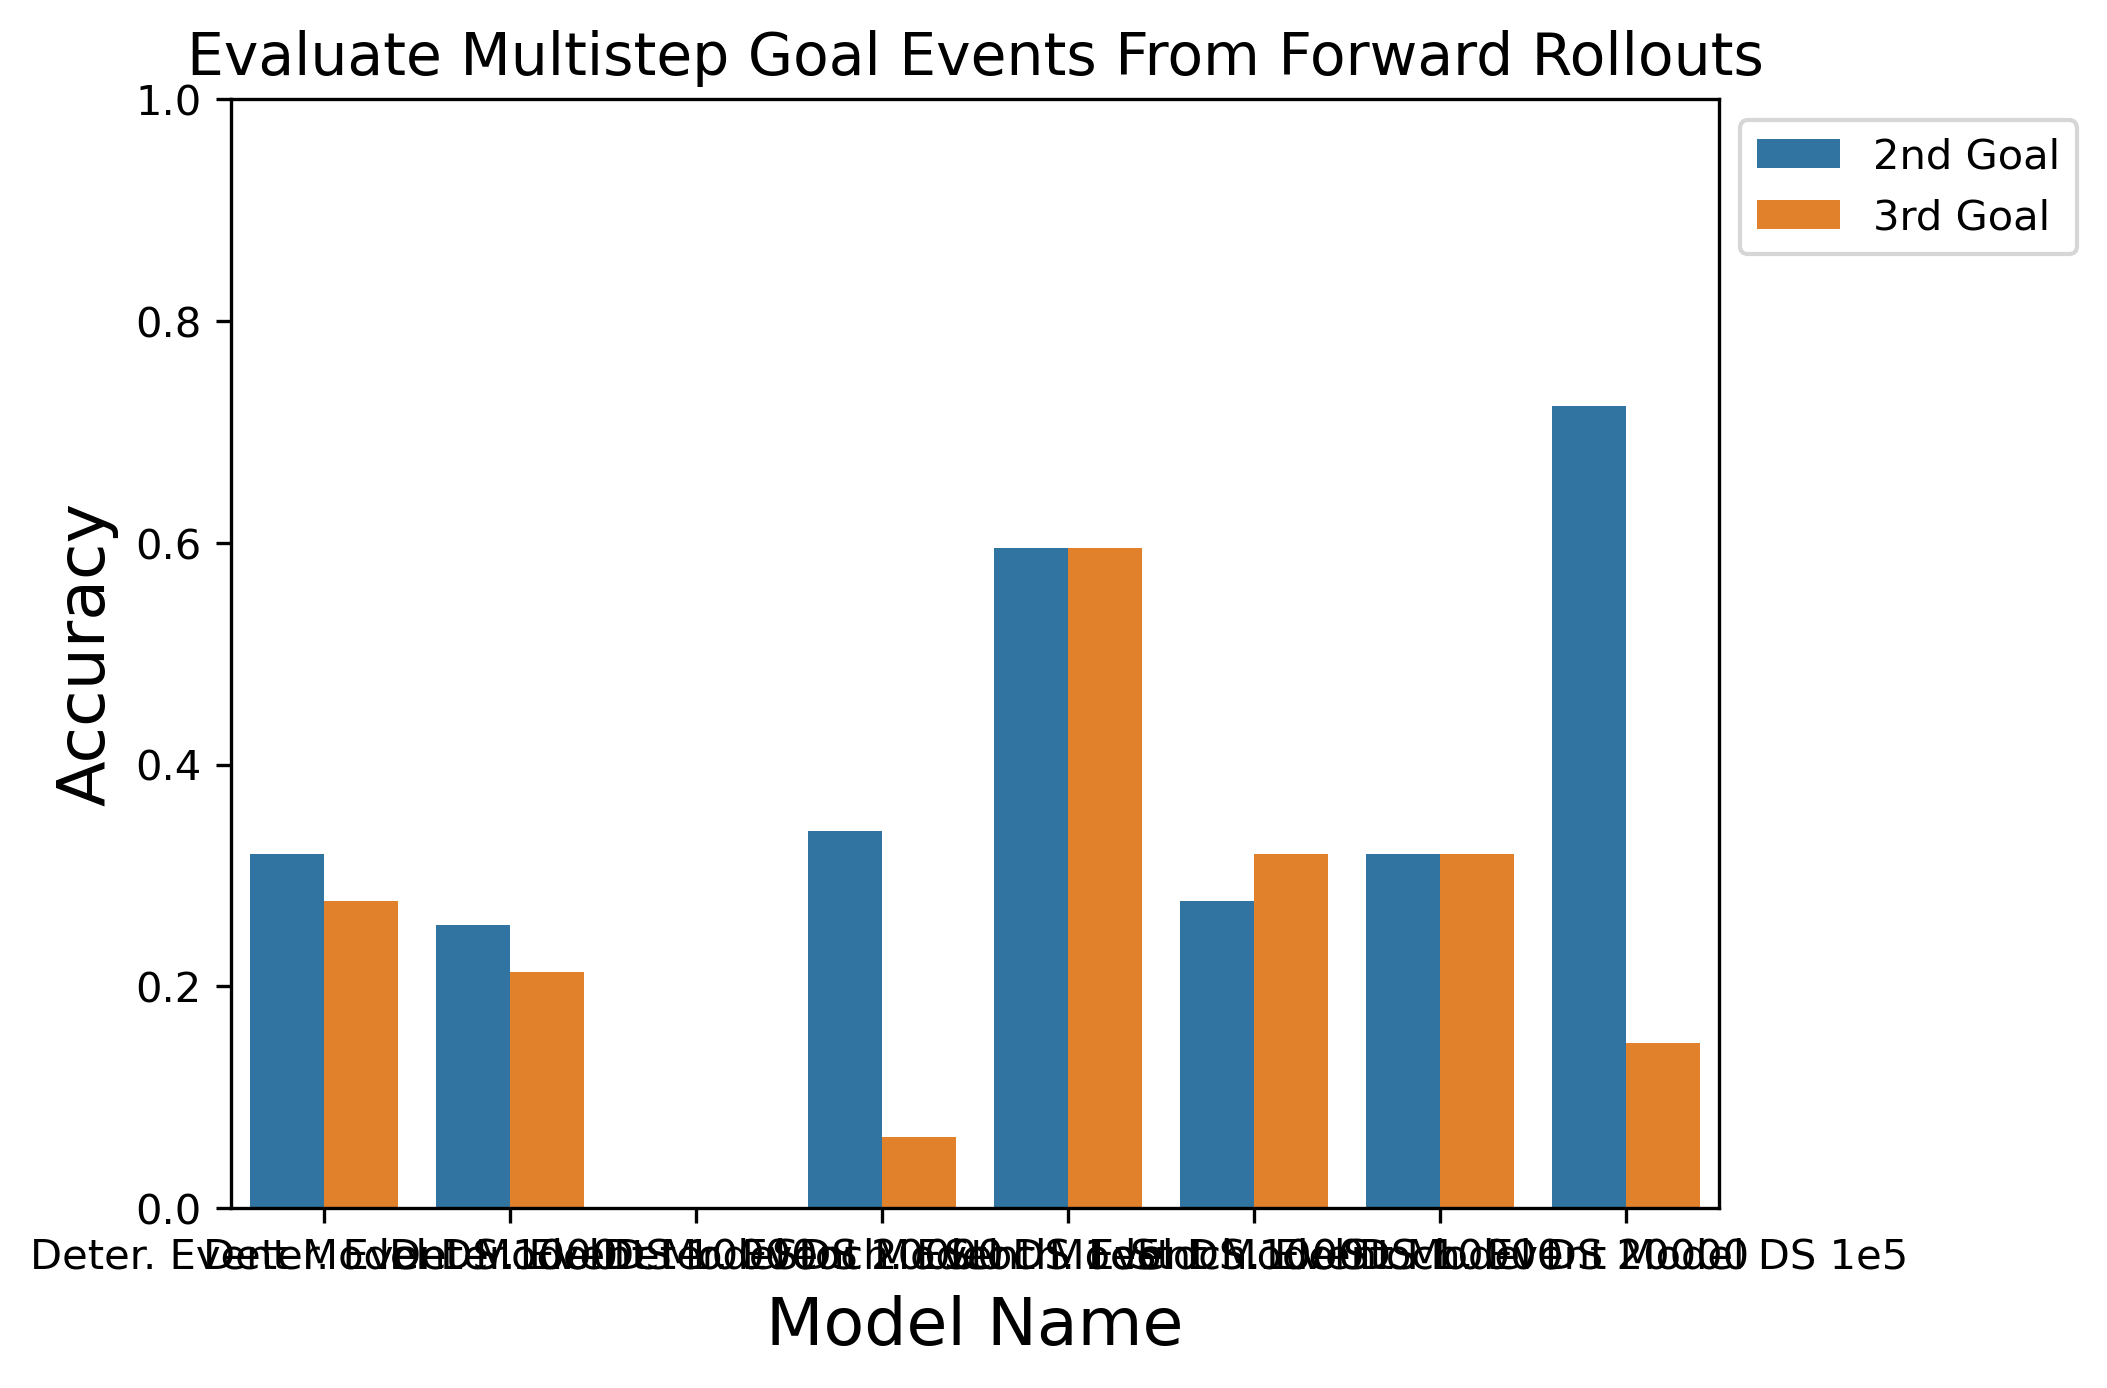
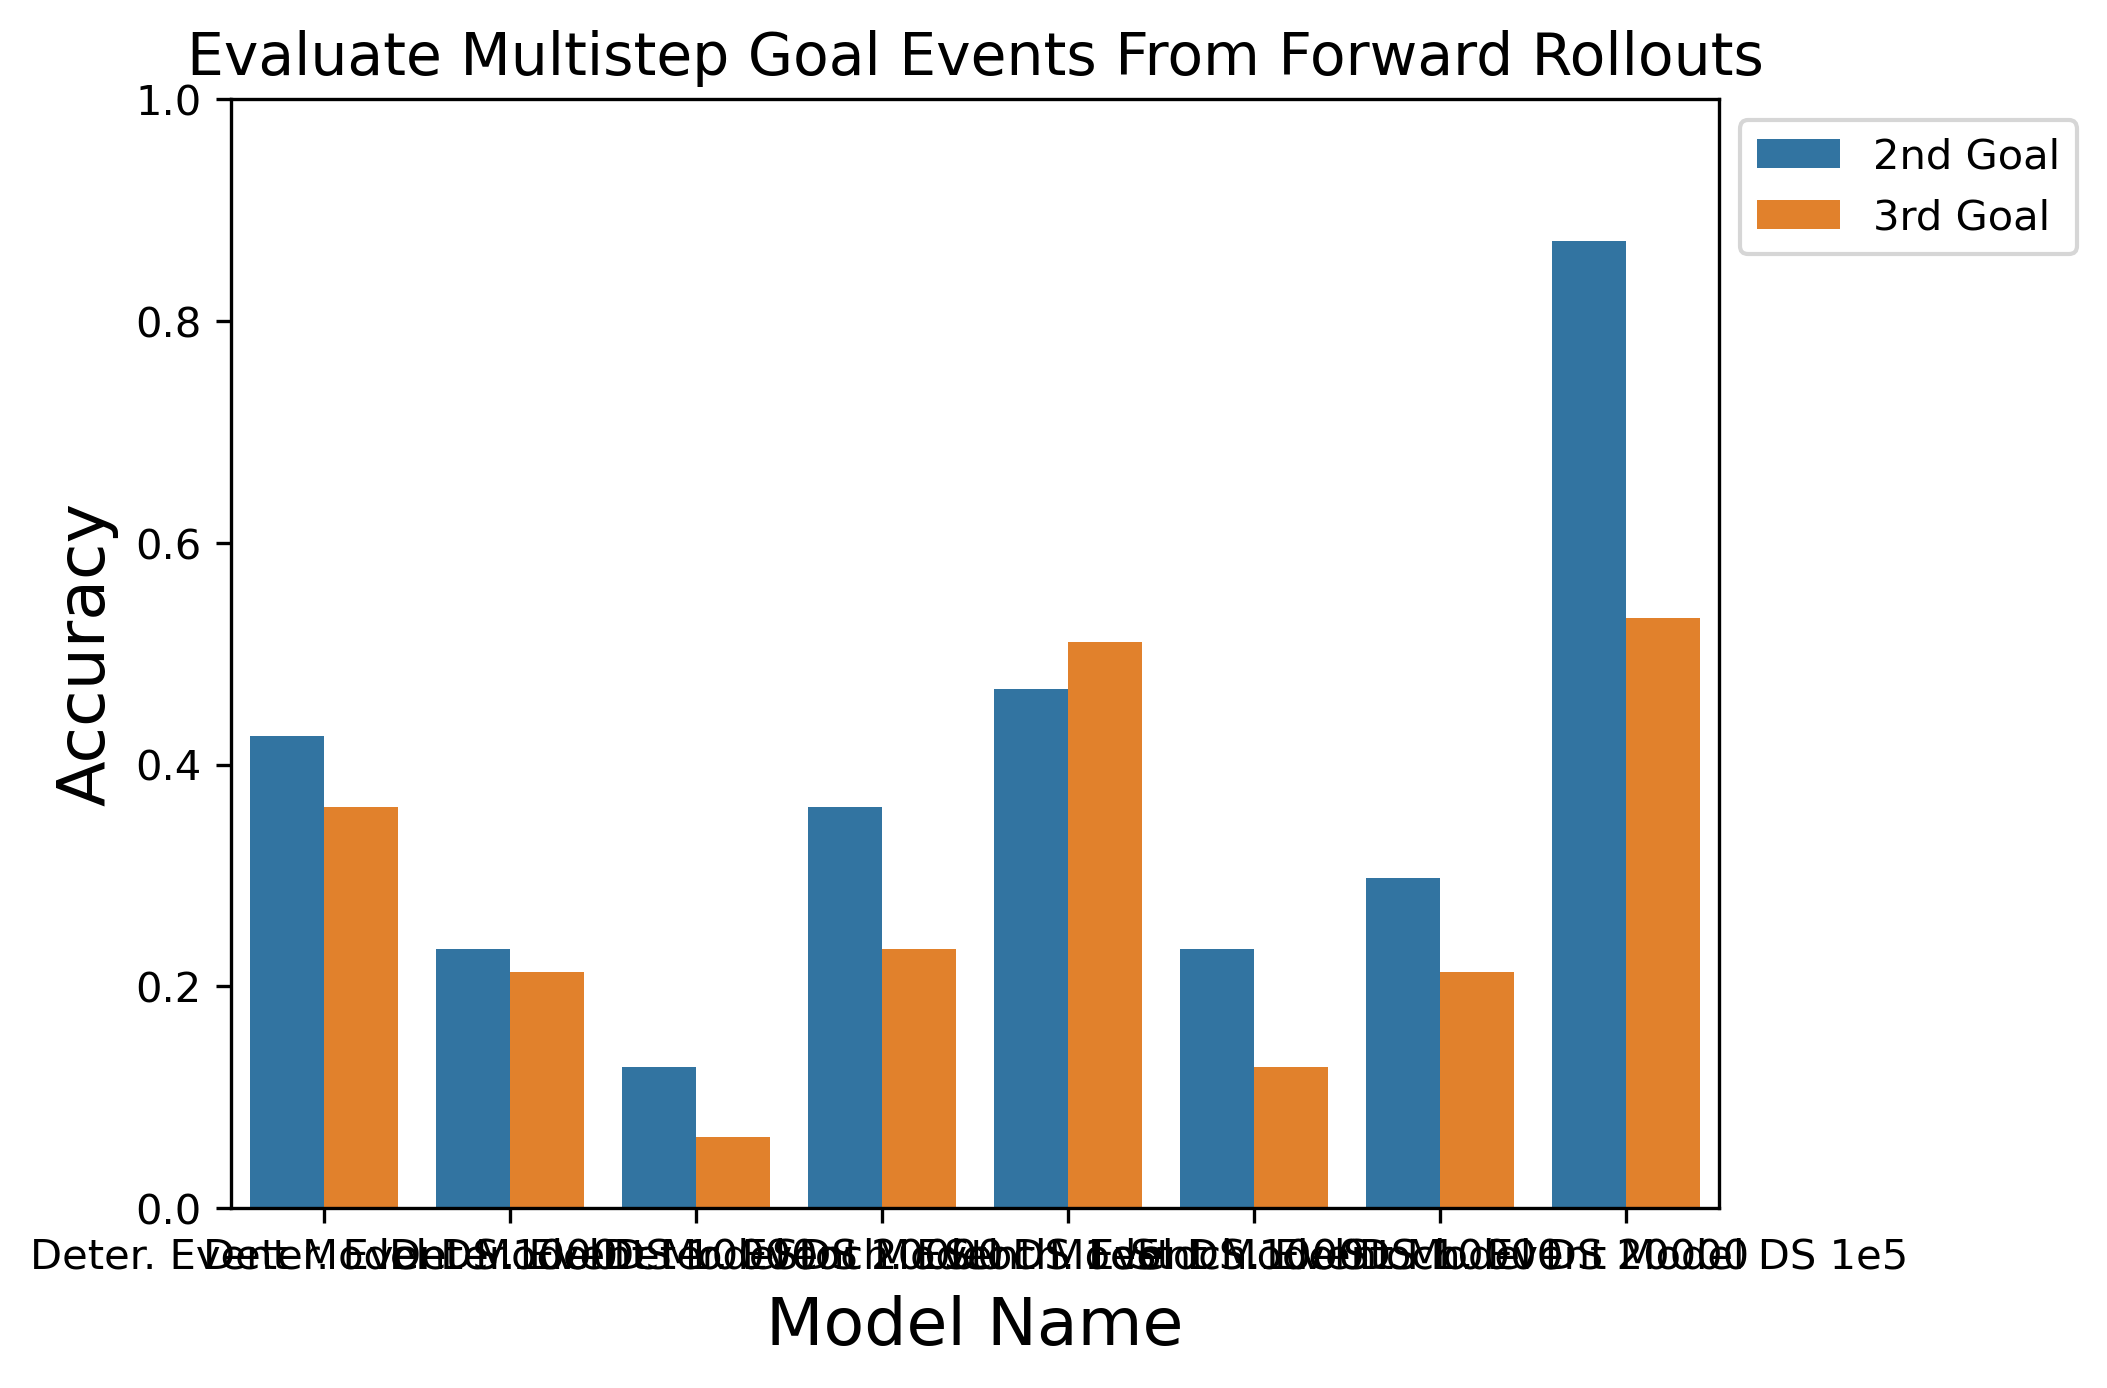
Minor

diff --git a/constants_lc.py b/constants_lc.py
@@ -407,12 +407,12 @@ DEFAULT_VALUES = {
     #'model_keys': ['mp_mlp_2048_lr3e-4_s1','rssm_disc_h_2048_lr3e-4_s1','rssm_cont_h_2048_lr1e-4_s1','md_mlp_2048_lr3e-4_s1','transformer_iris'],
     #'model_keys': ['mp_mlp_2048_lr3e-4_s1','rssm_disc_h_2048_lr3e-4_s1','tf_emb2048_lr1e-4_s1'],
     #'model_keys': ['sgnet_10', 'sgnet10_s2', 'sgnet10_s3'],     
-    'model_keys': ['rssm_ds1000', 'rssm_ds5000', 'rssm_ds10000', 'rssm_ds20000', 'rssm_ds30000', 'rssm_disc_h_2048_lr3e-4_s1', 'rssm_ds1e5',
-                    'mp_ds1000', 'mp_ds5000', 'mp_ds10000', 'mp_ds20000', 'mp_ds30000', 'mp_mlp_2048_lr3e-4_s1', 'mp_ds1e5',
-                    'em_deter_5000', 'em_deter_30000', 'emodel_no_horizon', 'em_stoch_5000', 'em_stoch_30000', 'stoch_em_beta100'],
+    # 'model_keys': ['rssm_ds1000', 'rssm_ds5000', 'rssm_ds10000', 'rssm_ds20000', 'rssm_ds30000', 'rssm_disc_h_2048_lr3e-4_s1', 'rssm_ds1e5',
+    #                 'mp_ds1000', 'mp_ds5000', 'mp_ds10000', 'mp_ds20000', 'mp_ds30000', 'mp_mlp_2048_lr3e-4_s1', 'mp_ds1e5',
+    #                 'em_deter_5000', 'em_deter_30000', 'emodel_no_horizon', 'em_stoch_5000', 'em_stoch_30000', 'stoch_em_beta100'],
     # ccn2
-    # 'model_keys': ['em_deter_1000', 'em_deter_10000', 'em_deter_20000', 'em_deter_1e5',
-    #                 'em_stoch_1000', 'em_stoch_10000', 'em_stoch_20000', 'em_stoch_1e5'],
+    'model_keys': ['em_deter_1000', 'em_deter_10000', 'em_deter_20000', 'em_deter_1e5',
+                    'em_stoch_1000', 'em_stoch_10000', 'em_stoch_20000', 'em_stoch_1e5'],
     'eval_types': ['goal_events', 'multigoal_events', 'move_events', 'pickup_events', 'displacement'],
     'move_threshold': 4.0,
     'non_goal_burn_in': 50,
